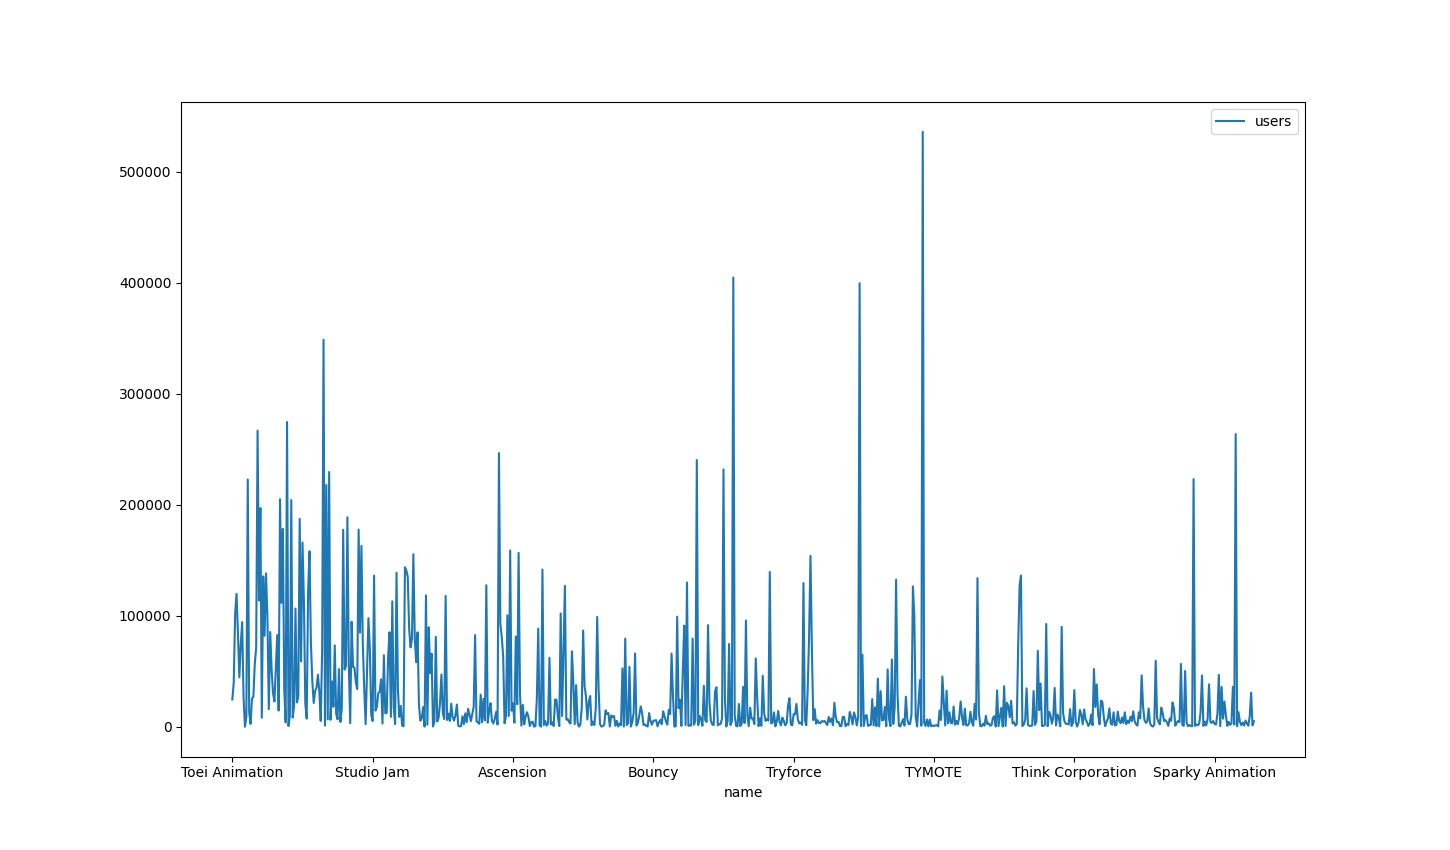
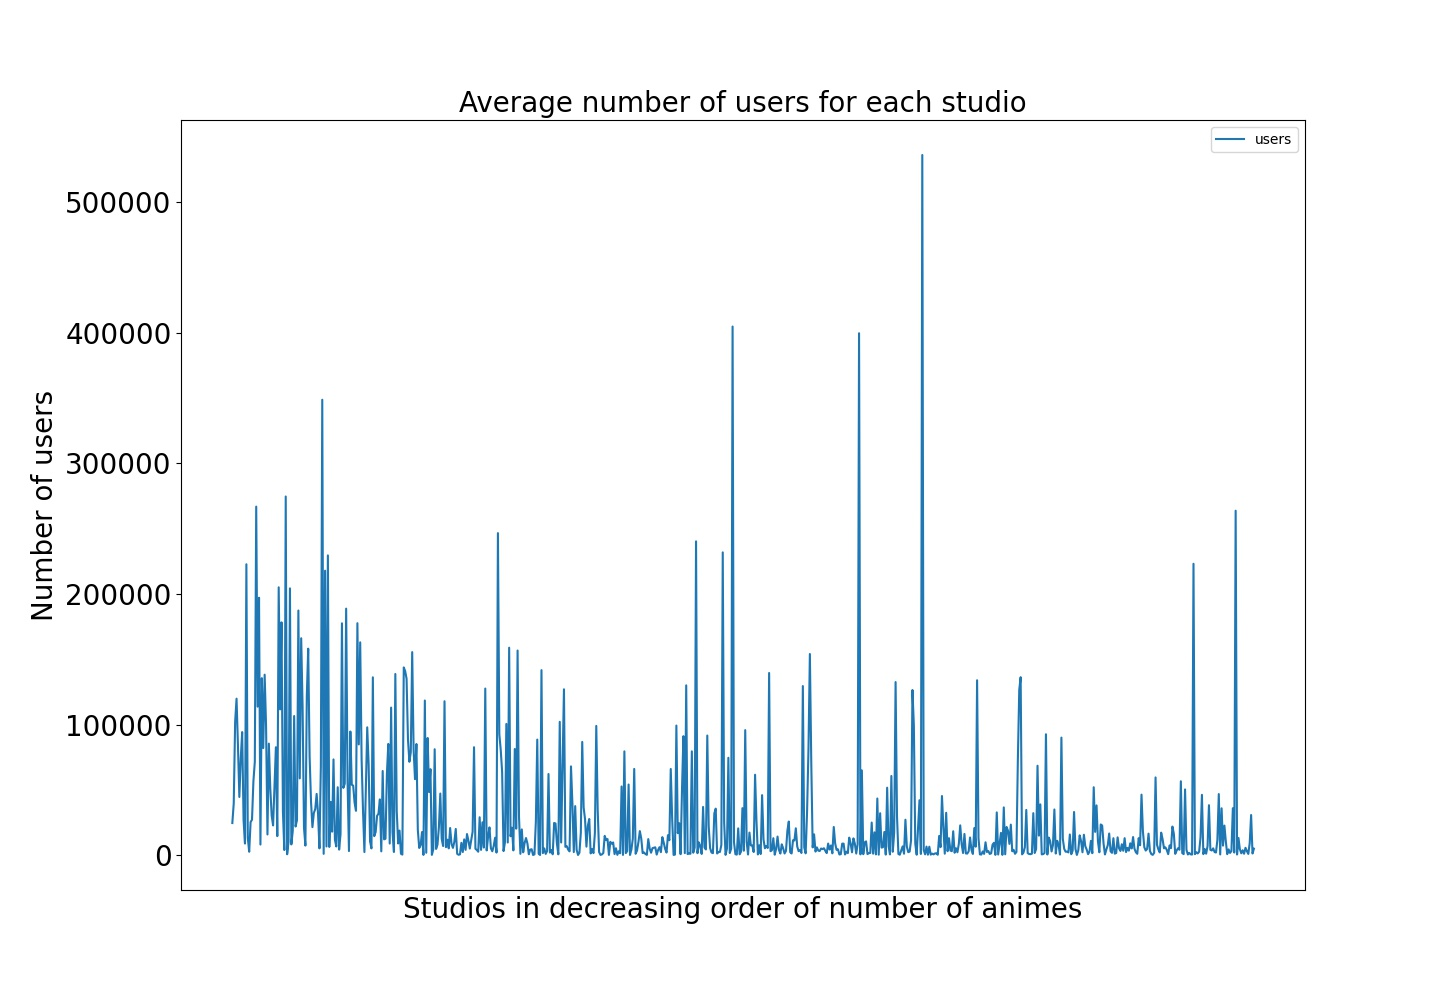
q7 part 1 plots corrected

diff --git a/q7.py b/q7.py
@@ -2,6 +2,7 @@ import pandas as pd
 import json
 from pathlib import Path
 import numpy as np
+import matplotlib.pyplot as plt
 
 # Code to load data
 pathlist = Path('data').rglob('*.json')
@@ -34,30 +35,45 @@ studiosDF = studiosDF.groupby(['id', 'name', 'animes'], as_index=False).agg({
 studiosDF.sort_values('animes', ascending=False, inplace=True)
 studiosDF.dropna(subset=['users', 'rating'], inplace=True)
 
+
+studiosDF = studiosDF[~(studiosDF['users'] < 100)]
 # These graphs are plotted with the condition that the data is
 # sorted by the total number of animes with highest being at top
-fig = studiosDF.plot(x='name', y='animes').get_figure()
-fig.set_size_inches(14.5, 8.5, forward=True)
+fig = studiosDF.plot(x='name', xlabel='Studios in decreasing order of number of animes',
+                     y='animes', ylabel='Number of animes', title='Number of animes produced by each studio').get_figure()
+ax = plt.gca()
+ax.axes.xaxis.set_ticks([])
 fig.savefig('plot_animes.jpeg')
 
-fig = studiosDF.plot(x='name', y='users').get_figure()
-fig.set_size_inches(14.5, 8.5, forward=True)
+
+fig = studiosDF.plot(x='name',
+                     y='users').get_figure()
+ax = plt.gca()
+ax.axes.xaxis.set_ticks([])
+plt.title('Average number of users for each studio', fontsize=20)
+plt.xlabel('Studios in decreasing order of number of animes', fontsize=20)
+plt.ylabel('Number of users', fontsize=20)
+plt.yticks(fontsize=20)
+fig.set_size_inches(14.5, 10, forward=True)
 fig.savefig('plot_users.jpeg')
 
-fig = studiosDF.plot(x='name', y='rating').get_figure()
-fig.set_size_inches(14.5, 8.5, forward=True)
+
+fig = studiosDF.plot(x='name', xlabel='Studios in decreasing order of number of animes',
+                     y='rating', ylabel='Average Rating', title='Average rating of animes produced by each studio').get_figure()
+ax = plt.gca()
+ax.axes.xaxis.set_ticks([])
 fig.savefig('plot_rating.jpeg')
 
+
 topStudiosDF = studiosDF.head(n=20)
-
-fig = topStudiosDF.plot(x='name', y='animes').get_figure()
-fig.set_size_inches(14.5, 8.5, forward=True)
-fig.savefig('plot_animes_top_studios.jpeg')
-
-fig = topStudiosDF.plot(x='name', y='users').get_figure()
-fig.set_size_inches(14.5, 8.5, forward=True)
+fig = topStudiosDF.plot(x='name', y='users', kind='bar', title='Average number of users of animes produced by top 20 studios',
+                        ylabel='Average Number of Users', xlabel='Studios in decreasing order of number of animes').get_figure()
+fig.set_size_inches(8, 8, forward=True)
+plt.tight_layout()
 fig.savefig('plot_users_top_studios.jpeg')
 
-fig = topStudiosDF.plot(x='name', y='rating').get_figure()
-fig.set_size_inches(14.5, 8.5, forward=True)
+fig = topStudiosDF.plot(x='name', y='rating', kind='bar', title='Average rating of animes produced by top 20 studios',
+                        ylabel='Average Rating', xlabel='Studios in decreasing order of number of animes').get_figure()
+fig.set_size_inches(8, 8, forward=True)
+plt.tight_layout()
 fig.savefig('plot_rating_top_studios.jpeg')
